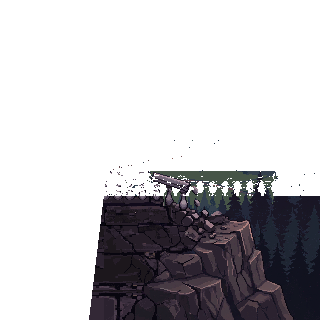
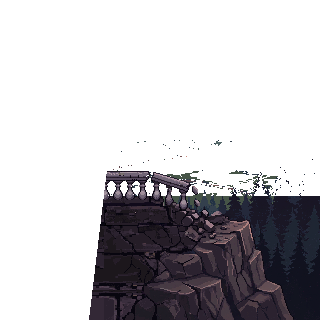
Обрыв балкона: перила не пропадают перед надломом (прозрачно только то, что совпадает с дальним планом); план: библиотека с котом — за лестницей в Темнице
Claude-Session: https://claude.ai/code/session_01NZaKJV7VXAQHZfGwN3MbH5

Changed region(s): [[0.3125, 0.5312, 0.875, 0.625], [0.6562, 0.4375, 0.6875, 0.4688]]

diff --git a/docs/plan-chapter1.md b/docs/plan-chapter1.md
@@ -73,6 +73,8 @@
   придумает позже.
 - **Библиотека заброшенная (14.10)** — очень много книг, несколько столов, бумаги и записки на полу, потушенная свеча,
   которую можно зажечь; часть книг и записок читается. Возможно — отдельная комната библиотеки, где живёт кот.
+- **Где (14.10):** за непроходимой лестницей в Темнице (справа, у двери наверх, рядом с местом боя с Илиа) — подняться по
+  ней в эту библиотеку с котом.
 
 ## Б. Комнаты — чего добавить (сам, декор без вопросов)
 
